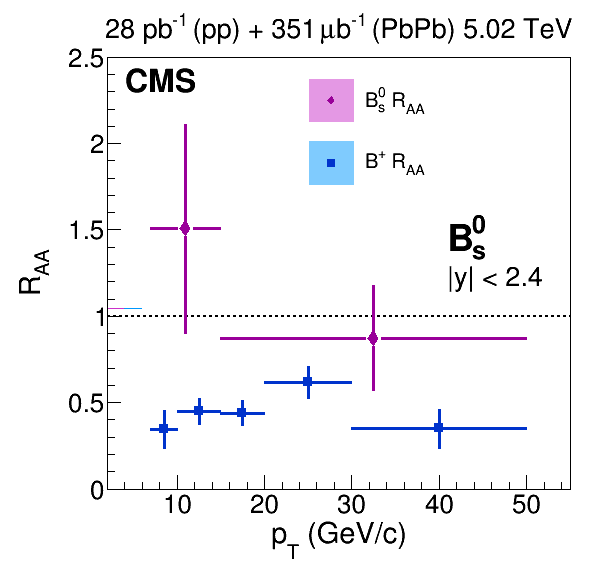
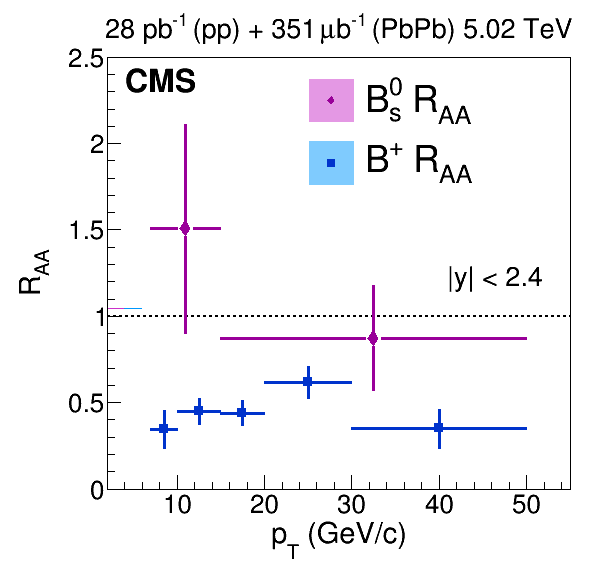
update

Changed region(s): [[0.604, 0.1486, 0.7852, 0.2378], [0.604, 0.2378, 0.7852, 0.3269], [0.755, 0.3566, 0.8154, 0.4755]]

diff --git a/CrossSection/plotRAA/canvasRAAPbPb_0_100_BpRAA.C b/CrossSection/plotRAA/canvasRAAPbPb_0_100_BpRAA.C
@@ -1,7 +1,7 @@
 void canvasRAAPbPb_0_100_BpRAA()
 {
 //=========Macro generated from canvas: canvasRAA/canvasRAA
-//=========  (Wed May  2 22:22:31 2018) by ROOT version6.02/13
+//=========  (Thu May  3 15:05:21 2018) by ROOT version6.02/13
    TCanvas *canvasRAA = new TCanvas("canvasRAA", "canvasRAA",0,0,600,600);
    gStyle->SetOptStat(0);
    gStyle->SetOptTitle(0);
@@ -52,11 +52,6 @@ void canvasRAAPbPb_0_100_BpRAA()
 tex->SetNDC();
    tex->SetTextAlign(32);
    tex->SetTextFont(42);
-   tex->SetLineWidth(2);
-   tex->Draw();
-      tex = new TLatex(0.75,0.56,"B^{0}_{s}");
-tex->SetNDC();
-   tex->SetTextSize(0.07);
    tex->SetLineWidth(2);
    tex->Draw();
       tex = new TLatex(0.75,0.5,"|y| < 2.4");
@@ -195,7 +190,7 @@ tex->SetNDC();
    
    TLegend *leg = new TLegend(0.5,0.66,0.95,0.88,NULL,"brNDC");
    leg->SetBorderSize(0);
-   leg->SetTextSize(0.04);
+   leg->SetTextSize(0.055);
    leg->SetLineColor(0);
    leg->SetLineStyle(1);
    leg->SetLineWidth(1);
@@ -214,7 +209,7 @@ tex->SetNDC();
    entry->SetMarkerStyle(33);
    entry->SetMarkerSize(1.2);
    entry->SetTextFont(42);
-   entry->SetTextSize(0.038);
+   entry->SetTextSize(0.07);
    entry=leg->AddEntry("","B^{+} R_{AA}","pf");
 
    ci = 928;
@@ -229,7 +224,7 @@ tex->SetNDC();
    entry->SetMarkerStyle(21);
    entry->SetMarkerSize(1);
    entry->SetTextFont(42);
-   entry->SetTextSize(0.038);
+   entry->SetTextSize(0.07);
    leg->Draw();
    
    Double_t gNuclearModification_fx3002[2] = {

diff --git a/CrossSection/NuclearModificationFactor.C b/CrossSection/NuclearModificationFactor.C
@@ -201,7 +201,7 @@ void NuclearModificationFactor(TString inputPP="ROOTfiles/CrossSectionPP.root", 
 	texB->SetTextFont(62);
 	texB->SetTextSize(0.07);
 	texB->SetLineWidth(2);
-	texB->Draw();
+	//texB->Draw();
 
 	TLatex *texY = new TLatex(0.75,0.5,"|y| < 2.4");
 	texY->SetNDC();
@@ -336,7 +336,7 @@ void NuclearModificationFactor(TString inputPP="ROOTfiles/CrossSectionPP.root", 
 		ent_B->SetTextFont(42);
 		ent_B->SetLineColor(4);
 		ent_B->SetMarkerColor(4);
-		ent_B->SetTextSize(0.038);
+		ent_B->SetTextSize(0.07);
 		if(onlyBs==1){
 			if(BSepSys){
 				ent_uncCor = legendSigma->AddEntry(gNuclearModification_Cor,"Correlated syst. uncert.","f");
@@ -386,7 +386,7 @@ void NuclearModificationFactor(TString inputPP="ROOTfiles/CrossSectionPP.root", 
 		ent_BpRAA->SetTextFont(42);
 		ent_BpRAA->SetLineColor(4);
 		ent_BpRAA->SetMarkerColor(4);
-		ent_BpRAA->SetTextSize(0.038);
+		ent_BpRAA->SetTextSize(0.07);
 		otherSystnorm = new TBox(pti+TAABarWid*GlobSystPos[GlobSystPosCounter],1-systnormlo,pti+TAABarWid*GlobSystPos[GlobSystPosCounter+1],1+systnormhi);
 		GlobSystPosCounter++;
 		otherSystnorm->SetLineColor(kAzure+7);
@@ -579,5 +579,5 @@ void adjustLegend(TLegend* l){
 	l->SetFillColor(0);
 	l->SetFillStyle(1001);
 	l->SetTextFont(42);
-	l->SetTextSize(0.04);
+	l->SetTextSize(0.055);
 }

diff --git a/CrossSection/plotCrossSection/plotCrossSection_750/canvasSigmaBplusRatiopp.C b/CrossSection/plotCrossSection/plotCrossSection_750/canvasSigmaBplusRatiopp.C
@@ -1,7 +1,7 @@
 void canvasSigmaBplusRatiopp()
 {
 //=========Macro generated from canvas: cSigma/
-//=========  (Wed May  2 22:47:13 2018) by ROOT version6.02/13
+//=========  (Thu May  3 14:58:31 2018) by ROOT version6.02/13
    TCanvas *cSigma = new TCanvas("cSigma", "",0,0,600,600);
    gStyle->SetOptStat(0);
    gStyle->SetOptTitle(0);
